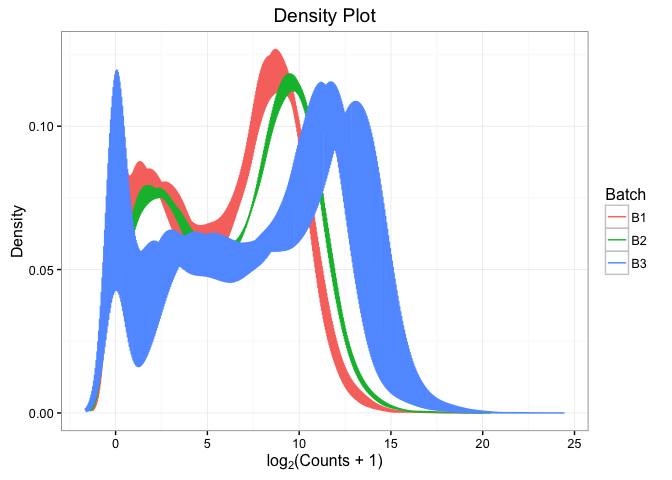
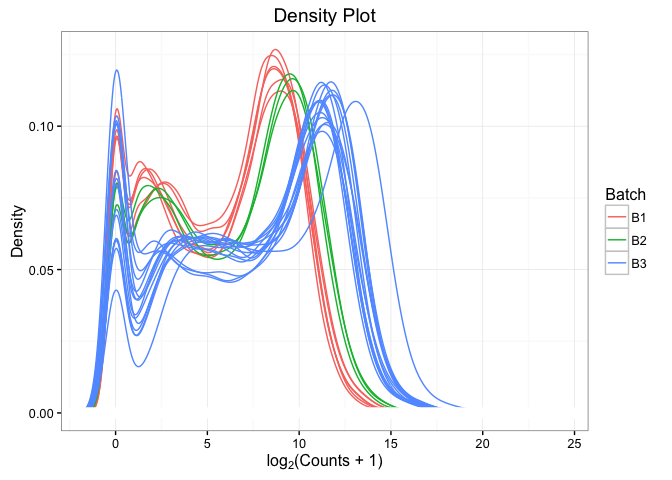
fix dens

Changed region(s): [[0.1562, 0.0938, 0.8438, 0.875], [0.125, 0.7812, 0.1562, 0.875], [0.125, 0.7188, 0.1562, 0.75]]

diff --git a/Scripts/Adalimumab_EDA.md b/Scripts/Adalimumab_EDA.md
@@ -1,4 +1,4 @@
-Adalimumab Data 
+Adalimumab Data
 ================
 Preliminary Review and Concerns
 -------------------------------
@@ -95,16 +95,16 @@ dat <- data.frame(Batch = rep(pheno$batch, each=512), gather(data.frame(X), Samp
                   Density = gather(data.frame(Y), Sample, Density) %>% select(Density))
 
 # Plot results
-ggplot(dat, aes(lCounts, Density, colour=Batch)) + geom_line(size=0.5) + 
-  theme(legend.justification=c(1, 1), legend.position=c(1, 1)) + theme_bw() +
-  labs(title='Density Plot', x=expression('log'[2]*'(Counts + 1)'))
+ggplot(dat, aes(lCounts, Density, colour=Batch)) + geom_path() + 
+   theme_bw() + geom_hline(yintercept=0, colour='white', size=4) + 
+   labs(title='Density Plot', x=expression('log'[2]*'(Counts + 1)'))
 ```
 
 <p align='center'>
 <img src="Adalimumab_EDA_files/figure-markdown_github/dens-1.png" style="display: block; margin: auto;" />
 </p>
 
-It appears from this figure that there is considerable intra- and inter-batch variation in these data.
+It appears from this figure that the data follow an unusual bimodal distribution with considerable intra- and inter-batch variation.
 
 Box Plot
 --------
